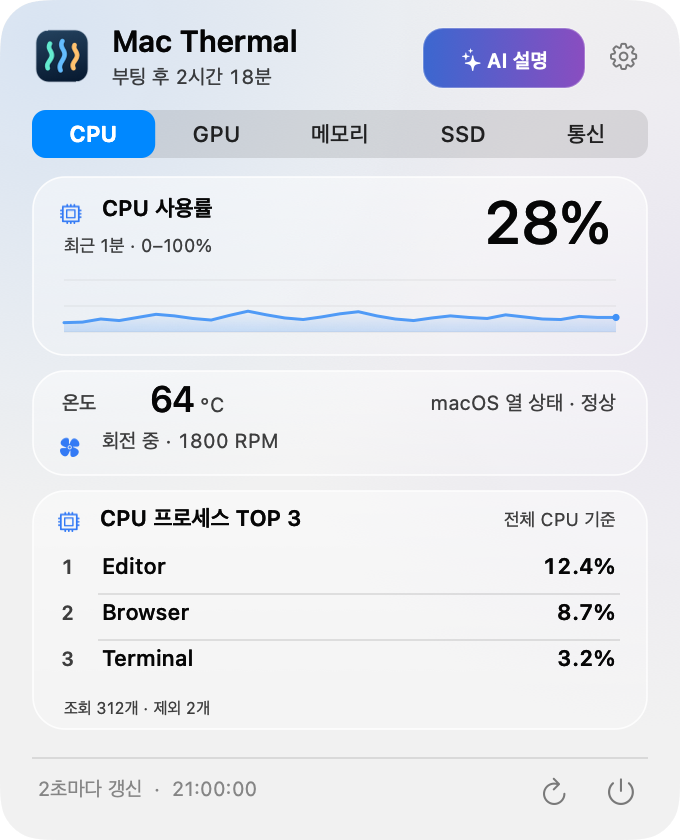
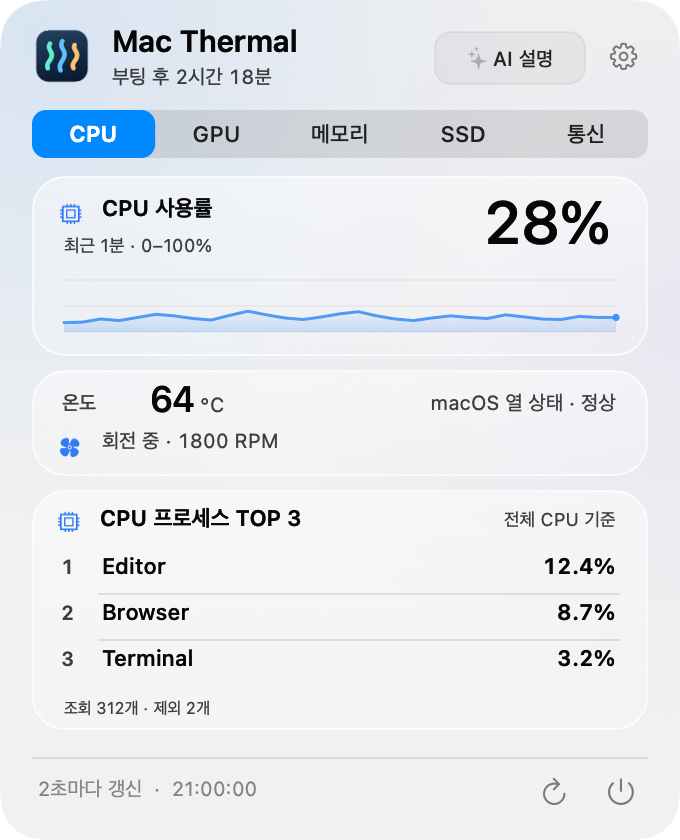
Soften and slightly reduce the AI header button

Changed region(s): [[0.6176, 0.031, 0.8647, 0.1238]]

diff --git a/Sources/Panel.swift b/Sources/Panel.swift
@@ -23,12 +23,11 @@ enum PanelColor {
 /// hit testing and accessibility. No timer or attention-seeking animation.
 private final class AdviceEntryButtonCell: NSButtonCell {
     override func drawBezel(withFrame frame: NSRect, in controlView: NSView) {
-        let path = NSBezierPath(roundedRect: frame.insetBy(dx: 0.5, dy: 1), xRadius: 10, yRadius: 10)
-        let blue = NSColor(calibratedRed: 0.18, green: 0.31, blue: 0.77, alpha: 1)
-        let purple = NSColor(calibratedRed: 0.46, green: 0.20, blue: 0.70, alpha: 1)
-        NSGradient(starting: blue, ending: purple)?.draw(in: path, angle: 0)
-        if isHighlighted { NSColor.black.withAlphaComponent(0.16).setFill(); path.fill() }
-        NSColor.white.withAlphaComponent(0.26).setStroke(); path.lineWidth = 1; path.stroke()
+        let path = NSBezierPath(roundedRect: frame.insetBy(dx: 0.5, dy: 1), xRadius: 8, yRadius: 8)
+        PanelColor.adaptive(.black.withAlphaComponent(isHighlighted ? 0.09 : 0.045),
+                            .white.withAlphaComponent(isHighlighted ? 0.14 : 0.075)).setFill()
+        path.fill()
+        PanelColor.divider.setStroke(); path.lineWidth = 0.75; path.stroke()
     }
 }
 
@@ -494,10 +493,10 @@ final class PanelController: NSViewController {
         let button = NSButton(frame: .zero)
         button.cell = AdviceEntryButtonCell(textCell: "")
         button.target = self; button.action = #selector(toggleAdvice)
-        button.bezelStyle = .rounded; button.controlSize = .regular
-        button.font = .systemFont(ofSize: 10, weight: .semibold)
+        button.bezelStyle = .rounded; button.controlSize = .small
+        button.font = .systemFont(ofSize: 10, weight: .medium)
         button.imagePosition = .imageLeft; button.imageHugsTitle = true
-        button.contentTintColor = .white
+        button.contentTintColor = .secondaryLabelColor
         return button
     }()
     var adviceActionRequested: ((AdviceAction) -> Void)?
@@ -784,7 +783,7 @@ final class PanelController: NSViewController {
         place(text("Mac Thermal", size: 15, weight: .semibold), in: canvas, 54, 11, 153, 20)
         place(uptimeLabel, in: canvas, 54, 32, 153, 14)
         localizedToolTip(uptimeLabel, "잠자기 시간을 포함한 부팅 후 경과 시간 · 1분 단위")
-        place(adviceButton, in: canvas, 211, 13, 82, 32)
+        place(adviceButton, in: canvas, 217, 15, 76, 28)
         place(menuBarSettingsButton, in: canvas, 300, 16, 24, 24)
         place(tabs, in: canvas, 16, 55, 308, 24)
         tabViews = Self.tabIdentifiers.map { _ in
@@ -1168,12 +1167,12 @@ final class PanelController: NSViewController {
     private func updateAdviceButton() {
         let title = L10n.text(showingAdvice ? "돌아가기" : "AI 설명")
         adviceButton.title = title
-        let attributes: [NSAttributedString.Key: Any] = [.font: NSFont.systemFont(ofSize: 10, weight: .semibold), .foregroundColor: NSColor.white]
+        let attributes: [NSAttributedString.Key: Any] = [.font: NSFont.systemFont(ofSize: 10, weight: .medium), .foregroundColor: NSColor.labelColor]
         adviceButton.attributedTitle = NSAttributedString(string: title, attributes: attributes)
         adviceButton.attributedAlternateTitle = adviceButton.attributedTitle
         let symbol = NSImage(systemSymbolName: showingAdvice ? "chevron.left" : "sparkles", accessibilityDescription: nil)?
-            .withSymbolConfiguration(NSImage.SymbolConfiguration(pointSize: 11, weight: .semibold))
-        adviceButton.image = symbol?.withSymbolConfiguration(NSImage.SymbolConfiguration(paletteColors: [.white]))
+            .withSymbolConfiguration(NSImage.SymbolConfiguration(pointSize: 10, weight: .medium))
+        adviceButton.image = symbol?.withSymbolConfiguration(NSImage.SymbolConfiguration(paletteColors: [.secondaryLabelColor]))
         adviceButton.image?.isTemplate = false
         adviceButton.setAccessibilityLabel(L10n.text(showingAdvice ? "상태 안내 닫기" : "현재 탭의 AI 설명 열기"))
         adviceButton.toolTip = L10n.text("현재 상태와 해볼 일을 확인해요 · AI를 사용할 수 없으면 기본 안내를 표시해요")
@@ -1574,7 +1573,7 @@ extension PanelController {
     var probeAdviceView: HealthAdviceView { adviceContent }
     var probeAdviceButtonFits: Bool { (adviceButton.cell?.cellSize.width ?? 0) <= adviceButton.frame.width }
     var probeAdviceEntryIsProminent: Bool {
-        !adviceButton.isHidden && adviceButton.frame == NSRect(x: 211, y: 13, width: 82, height: 32) && adviceButton.image != nil
+        !adviceButton.isHidden && adviceButton.frame == NSRect(x: 217, y: 15, width: 76, height: 28) && adviceButton.image != nil
     }
     var probeAdviceHeaderFits: Bool {
         (uptimeLabel.stringValue as NSString).size(withAttributes: [.font: uptimeLabel.font!]).width <= uptimeLabel.frame.width

diff --git a/RELEASES.md b/RELEASES.md
@@ -2,7 +2,7 @@
 
 ## Unreleased — v2.14.2
 
-- Move AI help from the footer to a larger, high-contrast original gradient button with a sparkle icon beside Settings. Keep the resource body, fixed panel dimensions, menu spacing and all four languages.
+- Move AI help from the footer to a compact neutral pill with a subtle fill, border and sparkle icon beside Settings. Keep the resource body, fixed panel dimensions, menu spacing and all four languages.
 - Cover all six unavailable-model states, generation errors, basic-guidance retention and login-approval UI fixtures. Exercise notification denial/unavailable states and real POSIX access denial/recovery on owned temporary folders, without changing macOS privacy settings.
 - Invalidate the local-record catalog timestamp after source access fails, so restored access re-enumerates on the next scan. Document the boundary between synthetic/POSIX tests and untested fresh-install macOS TCC denial in docs/PERMISSION_TESTING.md.
 
